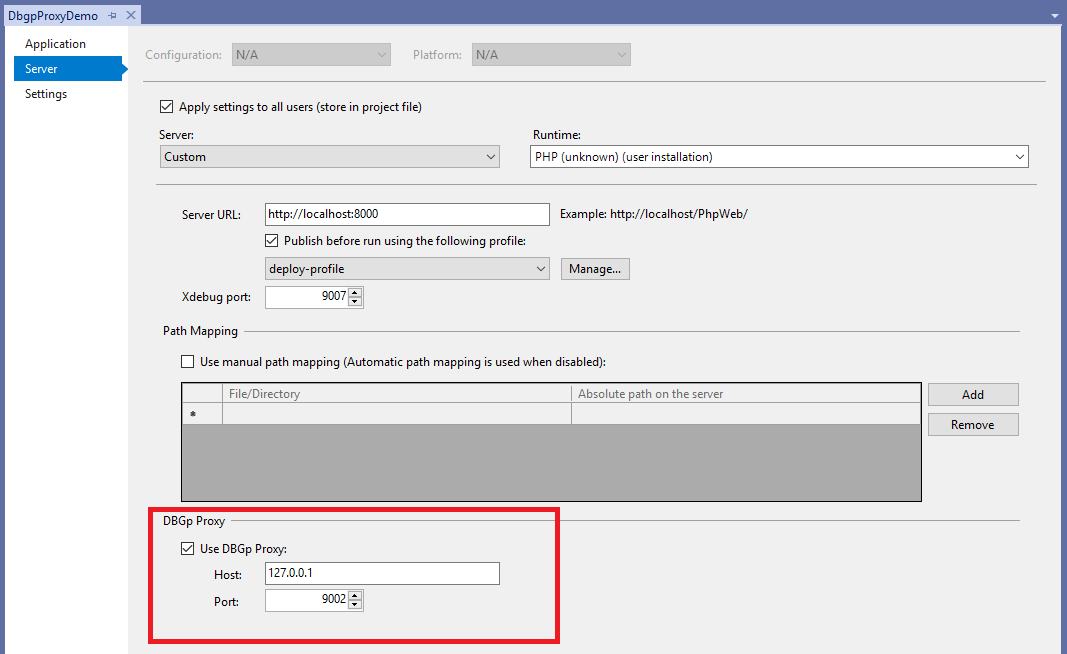
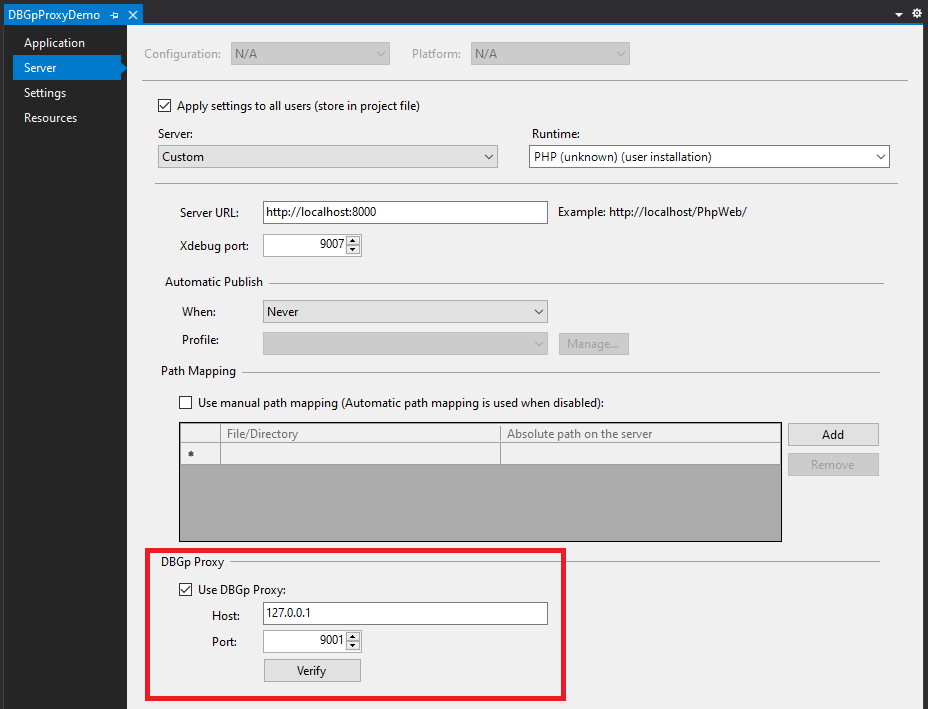
Updated multi-user documentation

diff --git a/docs/vs/Debugging/multi-user.md b/docs/vs/Debugging/multi-user.md
@@ -5,19 +5,31 @@ Description: Debugging PHP with multiple users
 
 # Multi-user debugging
 
-When you want to debug a PHP application remotely on one server, you need to setup PHP to connect back to your computer. You do it by setting `xdebug.remote_host` to your IP address. 
+When you want to debug a PHP application remotely on one server, you need to setup PHP to connect back to your computer. You do it by setting `xdebug.client_host` (Xdebug 2: `xdebug.remote_host`) to your IP address.
 
 The situation gets more complicated when a team of programmers needs to debug the same application which runs just on this web server.
 
-Xdebug doesn't allow to set more than one IP address to connect to. One option is to set `xdebug.remote_connect_back`. But this is not recommended, because it opens the possibility for anyone to debug your application.
+Xdebug doesn't allow to set more than one IP address to connect to. One option is to set `xdebug.discover_client_host` (Xdebug 2: `xdebug.remote_connect_back`). But this is not recommended, because it opens the possibility for anyone to debug your application.
 
-The solution is to use DBGp* proxy. Each developer from the team connects to the proxy and when the debug session is initiated, Xdebug connects to the proxy and sends the connection to the right IP address.
+The solution is to use DBGp* proxy. Each developer from the team connects to the proxy and when the debug session is initiated, Xdebug connects to the proxy which then sends the connection to the right IP address.
 
 ![DBGp proxy](imgs/dbgp_proxy.png)
 
 ## Configuration
 
 ### STEP 1 -  Download and install DBGp proxy
+
+1. Open [DBGp Proxy Tool download page](https://xdebug.org/download#dbgpProxy) and choose the executable file for your operating system.
+
+2. Place the proxy on the web server, or any machine that is accessible by both the web server and the developers.
+
+3. Start the proxy with `-s` argument specifing the IP for Xdebug to connect to and `-i` port where the IDE is going to contact the proxy.
+
+ [See DBGp Proxy Tool Documentation](https://xdebug.org/docs/dbgpProxy) for more information.
+
+![Starting DBGp proxy](imgs/start-dericks-dbgp.png)
+
+#### Alternative - Download and install Komodo's DBGp proxy
 
 1. Go to [Komodo's remode debugging package downloads](http://code.activestate.com/komodo/remotedebugging/) and get Python remote debugging client for the operating system where you want to run the proxy.
 
@@ -46,10 +58,20 @@ The solution is to use DBGp* proxy. Each developer from the team connects to the
 
 ### STEP 2 - Ensure Xdebug is installed and configured on the server
 
-On the server, open `php.ini` and make sure Xdebug is configured in a way that `remote_host` points to the IP address of the proxy. 
+On the server, open `php.ini` and make sure Xdebug is configured in a way that `xdebug.client_host` (Xdebug 2: `remote_host`) points to the IP address of the proxy.
 
-In the following case, the proxy is on the same machine as the web server; therefore, `xdebug.remote_host = 127.0.0.1`. `zend_extension` points to the location of dll, because it's Windows server. In Linux case it would be `so` file.
+In the following case, the proxy is on the same machine as the web server; therefore, `xdebug.client_host = 127.0.0.1`. `zend_extension` points to the location of `.dll` file, because it's Windows server. In Linux case it would be `.so` file.
 
+Xdebug 3:
+```
+[XDEBUG]
+zend_extension="C:\Program Files\PHP\v8.0\ext\php_xdebug.dll"
+xdebug.mode = debug
+xdebug.client_host = 127.0.0.1
+xdebug.client_port = 9003
+```
+
+Xdebug 2:
 ```
 [XDEBUG]
 zend_extension="C:\Program Files (x86)\PHP\v7.0\ext\php_xdebug.dll"
@@ -59,19 +81,19 @@ xdebug.remote_host = 127.0.0.1
 xdebug.remote_port = 9000
 ```
 
-3.) Configure PHP Tools to use DBGp proxy server
+3.) Configure PHP Tools for Visual Studio to use DBGp proxy server
 
 1. Navigate to project properties (right click on project node in **Solution Explorer**, choose properties).
 
 2. Select the server tab and enable the command `Use DBGp proxy`.
 
-3. Fill the host and port where the proxy is listening. In the screenshot bellow, the host is configured to point to the proxy located on the same machine. In most cases, this will point out to a remote server.
+3. Fill the host and port where the proxy is listening. In the screenshot bellow, the host is configured to point to the proxy located on the same machine. In most cases, this will point out to a remote server. You can click on **Verify** button to check if you are able to reach DBGp server.
 
 ![Setting of DBGp proxy in PHP Tools](imgs/dbgp_vs.png)
 
 4.) Start the debug session by pressing <kbd>F5</kbd>
 
-PHP Tools will try to connect to the DBGp proxy and register there to receive debug sessions.
+PHP Tools will try to connect to the DBGp proxy and register itself to receive the debug sessions.
 
 > Note:
 > Typically, the IDE wants the developer to choose an IDE key. This is used by the proxy to identify which developer is 
